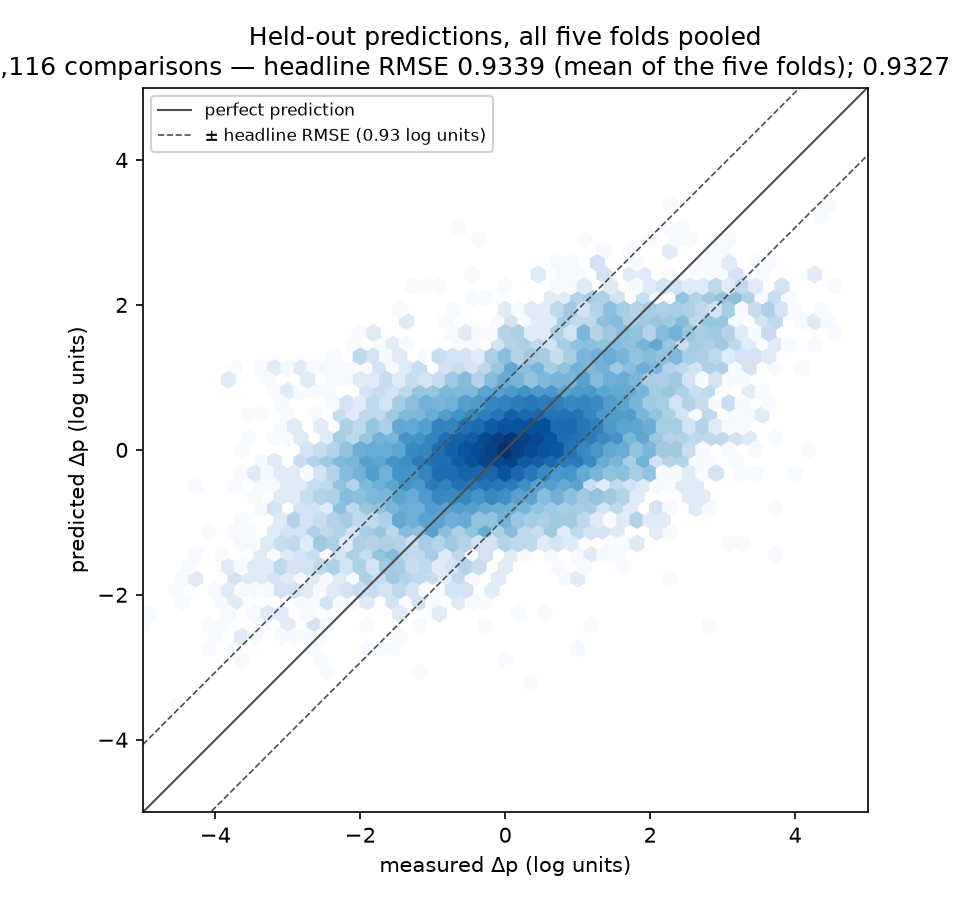
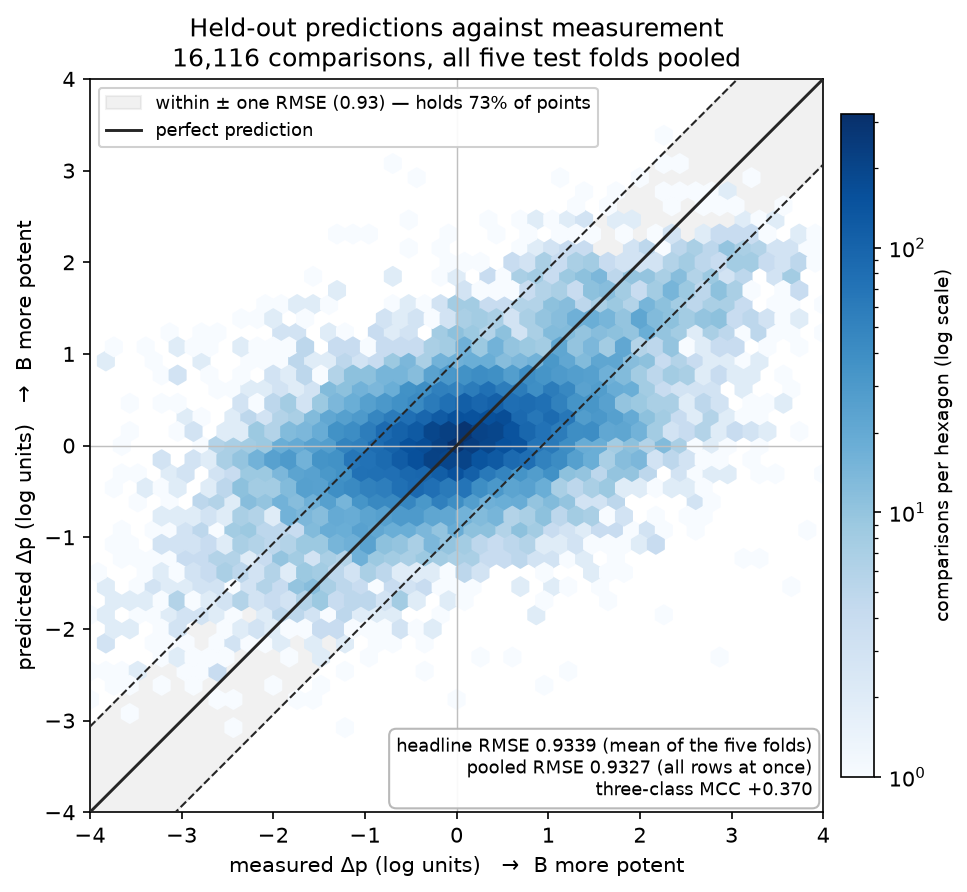
Make both figures readable: colour key, all three baselines, no clipped text
The scatter had no key at all -- the blue shading carried the density and
nothing said so -- and its title was clipped at both ends, losing the row
count on the left and the pooled RMSE on the right. It now has a labelled
log-scale colourbar, a frame tightened to where the data actually is, a
shaded +-RMSE band annotated with the 73% of comparisons that fall inside it,
and the two RMSEs named separately in a corner box so the figure cannot be
read as contradicting the tables.

The bar chart was missing one of the three baselines the project is required
to report: transformation x environment median was absent while the README
table listed it. All three are now shown, plus the shrunk_target_mean
reference. The legend has moved out of the plot area so it cannot sit on a
bar, the bars carry their values, and a sixth group holds the mean of the
five folds, which is the number every table quotes.

Both figures are regenerated from the published per-row predictions, and the
mean-of-five bars match the README table to four decimals.

README captions added: each figure now says what the colour means, what the
band means, and what the comparison is. The claims in them were checked --
73.2% of comparisons fall within one RMSE, the blend beats all four baselines
on all five folds, and the predictions really are narrower than the
measurements (sd 0.683 against 1.12), which is the conservatism the caption
describes.

diff --git a/app/make_figures.py b/app/make_figures.py
@@ -19,6 +19,7 @@ sys.path.insert(0, str(Path(__file__).resolve().parents[1]))
 import matplotlib  # noqa: E402
 matplotlib.use("Agg")
 import matplotlib.pyplot as plt  # noqa: E402
+from matplotlib.colors import LogNorm  # noqa: E402
 import numpy as np  # noqa: E402
 import pandas as pd  # noqa: E402
 
@@ -54,35 +55,64 @@ def predicted_vs_measured(rows, path):
                 for _, sub in rows.groupby("fold")]
     headline = float(np.mean(per_fold))
 
-    figure, axes = plt.subplots(figsize=(6.4, 6.0))
-    extent = 5.0
-    axes.hexbin(truth, predicted, gridsize=55, bins="log", cmap="Blues",
-                extent=(-extent, extent, -extent, extent))
-    axes.plot([-extent, extent], [-extent, extent], color="0.3", linewidth=1,
-              label="perfect prediction")
+    inside = float(np.mean(np.abs(predicted - truth) <= headline))
+
+    figure, axes = plt.subplots(figsize=(7.6, 7.0))
+    # Clipped to where the data actually is: 99.5% of comparisons sit inside
+    # +-4, and a wider frame is mostly white space.
+    extent = 4.0
+    mesh = axes.hexbin(truth, predicted, gridsize=46, cmap="Blues", mincnt=1,
+                       norm=LogNorm(vmin=1, vmax=None),
+                       extent=(-extent, extent, -extent, extent))
+    axes.fill_between([-extent, extent],
+                      [-extent - headline, extent - headline],
+                      [-extent + headline, extent + headline],
+                      color="0.55", alpha=0.12, zorder=0,
+                      label=f"within ± one RMSE ({headline:.2f}) — holds {inside:.0%} of points")
+    axes.plot([-extent, extent], [-extent, extent], color="0.15", linewidth=1.4,
+              label="perfect prediction", zorder=3)
     for sign in (1, -1):
         axes.plot([-extent, extent],
                   [-extent + sign * headline, extent + sign * headline],
-                  color="0.3", linewidth=0.8, linestyle="--",
-                  label=f"± headline RMSE ({headline:.2f} log units)" if sign == 1 else None)
+                  color="0.15", linewidth=1.0, linestyle="--", zorder=3)
+    axes.axhline(0, color="0.75", linewidth=0.7, zorder=1)
+    axes.axvline(0, color="0.75", linewidth=0.7, zorder=1)
     axes.set_xlim(-extent, extent)
     axes.set_ylim(-extent, extent)
-    axes.set_xlabel("measured Δp (log units)")
-    axes.set_ylabel("predicted Δp (log units)")
-    axes.set_title(f"Held-out predictions, all five folds pooled\n"
-                   f"{len(rows):,} comparisons — headline RMSE {headline:.4f} "
-                   f"(mean of the five folds); {scores['rmse']:.4f} pooled")
-    axes.legend(loc="upper left", fontsize=8, framealpha=0.9)
+    axes.set_xticks(range(-4, 5))
+    axes.set_yticks(range(-4, 5))
+    axes.set_xlabel("measured Δp (log units)   →  B more potent")
+    axes.set_ylabel("predicted Δp (log units)   →  B more potent")
+    axes.set_title("Held-out predictions against measurement\n"
+                   f"{len(rows):,} comparisons, all five test folds pooled",
+                   fontsize=12)
+    axes.legend(loc="upper left", fontsize=8.5, framealpha=0.92)
     axes.set_aspect("equal")
-    figure.tight_layout()
-    figure.savefig(path, dpi=150)
+
+    bar = figure.colorbar(mesh, ax=axes, shrink=0.82, pad=0.02)
+    bar.set_label("comparisons per hexagon (log scale)", fontsize=9)
+
+    # The two RMSEs are different statistics and both get named, so the figure
+    # can never be read as contradicting the tables.
+    axes.text(0.985, 0.015,
+              f"headline RMSE {headline:.4f} (mean of the five folds)\n"
+              f"pooled RMSE {scores['rmse']:.4f} (all rows at once)\n"
+              f"three-class MCC {scores['mcc_three_class']:+.3f}",
+              transform=axes.transAxes, ha="right", va="bottom", fontsize=8.5,
+              bbox=dict(boxstyle="round,pad=0.4", facecolor="white",
+                        edgecolor="0.7", alpha=0.92))
+    figure.savefig(path, dpi=150, bbox_inches="tight")
     plt.close(figure)
 
 
 def rmse_by_fold(rows, baselines, path):
     folds = sorted(rows["fold"].unique())
+    # All THREE required baselines are shown, not a selection of them: predict
+    # no change, the transformation median, and that median conditioned on the
+    # local environment. shrunk_target_mean is the stronger reference beside them.
     series = {"blend (headline)": [], "ensemble alone": [], "shrunk_target_mean": [],
-              "transformation median": [], "predict no change": []}
+              "transformation median": [], "transformation × environment median": [],
+              "predict no change": []}
     base = baselines.pivot(index="fold", columns="model", values="rmse")
     for fold in folds:
         sub = rows[rows["fold"] == fold]
@@ -91,24 +121,51 @@ def rmse_by_fold(rows, baselines, path):
         series["ensemble alone"].append(evaluate(sub["truth"], sub["ensemble"])["rmse"])
         series["shrunk_target_mean"].append(base.loc[fold, "shrunk_target_mean"])
         series["transformation median"].append(base.loc[fold, "transformation_median"])
+        series["transformation × environment median"].append(
+            base.loc[fold, "transformation_environment_median"])
         series["predict no change"].append(base.loc[fold, "zero"])
 
-    figure, axes = plt.subplots(figsize=(8.4, 4.6))
-    width = 0.16
-    positions = np.arange(len(folds))
+    # The sixth group is the headline itself: the mean of the five folds, which
+    # is the number every table quotes.
+    for label in series:
+        series[label].append(float(np.mean(series[label])))
+    groups = [f"fold {fold}\n{(rows['fold'] == fold).sum():,} pairs" for fold in folds]
+    groups.append(f"MEAN OF 5\n{len(rows):,} pairs")
+
+    figure, axes = plt.subplots(figsize=(10.0, 5.4))
+    width = 0.135
+    positions = np.arange(len(groups), dtype=float)
+    positions[-1] += 0.45          # set the headline group apart
     for index, (label, values) in enumerate(series.items()):
-        axes.bar(positions + (index - 2) * width, values, width, label=label)
-    axes.axhline(NOISE_FLOOR, color="crimson", linewidth=1, linestyle=":",
-                 label=f"between-lab noise floor ({NOISE_FLOOR})")
+        bars = axes.bar(positions + (index - 2.5) * width, values, width, label=label,
+                        edgecolor="white", linewidth=0.4)
+        for bar_patch, value in zip(bars, values):
+            axes.text(bar_patch.get_x() + bar_patch.get_width() / 2, value + 0.012,
+                      f"{value:.3f}", ha="center", va="bottom", fontsize=5.8,
+                      rotation=90, color="0.25")
+    axes.axhline(NOISE_FLOOR, color="crimson", linewidth=1.2, linestyle=":",
+                 zorder=4, label=f"between-lab noise floor ({NOISE_FLOOR}) — "
+                                 f"no model on this data can beat it")
+    axes.axvline(positions[-1] - 3.4 * width, color="0.8", linewidth=1)
     axes.set_xticks(positions)
-    axes.set_xticklabels([f"fold {fold}\n{(rows['fold'] == fold).sum():,} pairs"
-                          for fold in folds])
-    axes.set_ylabel("RMSE (log units), lower is better")
-    axes.set_title("Held-out RMSE per fold, model against the required baselines")
-    axes.legend(fontsize=8, ncol=2)
-    axes.set_ylim(0, 1.35)
-    figure.tight_layout()
-    figure.savefig(path, dpi=150)
+    axes.set_xticklabels(groups, fontsize=9)
+    axes.set_ylabel("RMSE (log units) — lower is better")
+    axes.set_title("Held-out RMSE per test fold: the model against every required "
+                   "baseline\nsame comparisons for every bar in a group",
+                   fontsize=12)
+    axes.set_ylim(0, 1.32)
+    axes.set_yticks(np.arange(0, 1.31, 0.2))
+    axes.grid(axis="y", color="0.9", linewidth=0.7, zorder=0)
+    axes.set_axisbelow(True)
+    # Outside the plot area, so it can never sit on top of a bar, and in the
+    # order the bars appear rather than the order matplotlib collected them.
+    handles, labels = axes.get_legend_handles_labels()
+    order = [labels.index(name) for name in series] + \
+            [i for i, name in enumerate(labels) if name not in series]
+    axes.legend([handles[i] for i in order], [labels[i] for i in order],
+                fontsize=8.5, ncol=4, loc="upper center",
+                bbox_to_anchor=(0.5, -0.13), frameon=False)
+    figure.savefig(path, dpi=150, bbox_inches="tight")
     plt.close(figure)
 
 

diff --git a/README.md b/README.md
@@ -45,9 +45,25 @@ Each row is the mean of five molecule-disjoint test folds, on the same 16,116
 comparisons. The model beats both `zero` and `shrunk_target_mean` by more than
 2 standard errors on all five folds, paired and clustered by comparison.
 
-![Held-out predictions](results/predicted_vs_measured.png)
+![Predicted against measured Δp for 16,116 held-out comparisons, as a log-scaled
+hexagonal density plot with the perfect-prediction diagonal and a ±RMSE band](results/predicted_vs_measured.png)
 
-![RMSE by fold](results/rmse_by_fold.png)
+*Every held-out comparison, all five test folds pooled. Colour is how many
+comparisons fall in each hexagon, on a log scale. The shaded band is one RMSE
+either side of perfect, and 73% of comparisons land inside it. The cloud is
+wider than it is tall, which is the model being conservative: it rarely predicts
+a swap will change potency as much as the measurement says it did.*
+
+![Held-out RMSE for every fold, comparing the model with all three required
+baselines and the shrunk_target_mean reference](results/rmse_by_fold.png)
+
+*The same comparisons score every bar within a group, so the bars are directly
+comparable. The rightmost group is the headline. The model beats every baseline
+on every fold, and no bar comes near the noise floor — the limit set by labs
+disagreeing with each other, not by the model.*
+
+Both figures are redrawn from the published per-row predictions by
+`python app/make_figures.py`, so they cannot drift from the tables.
 
 ## Run the interface
 
